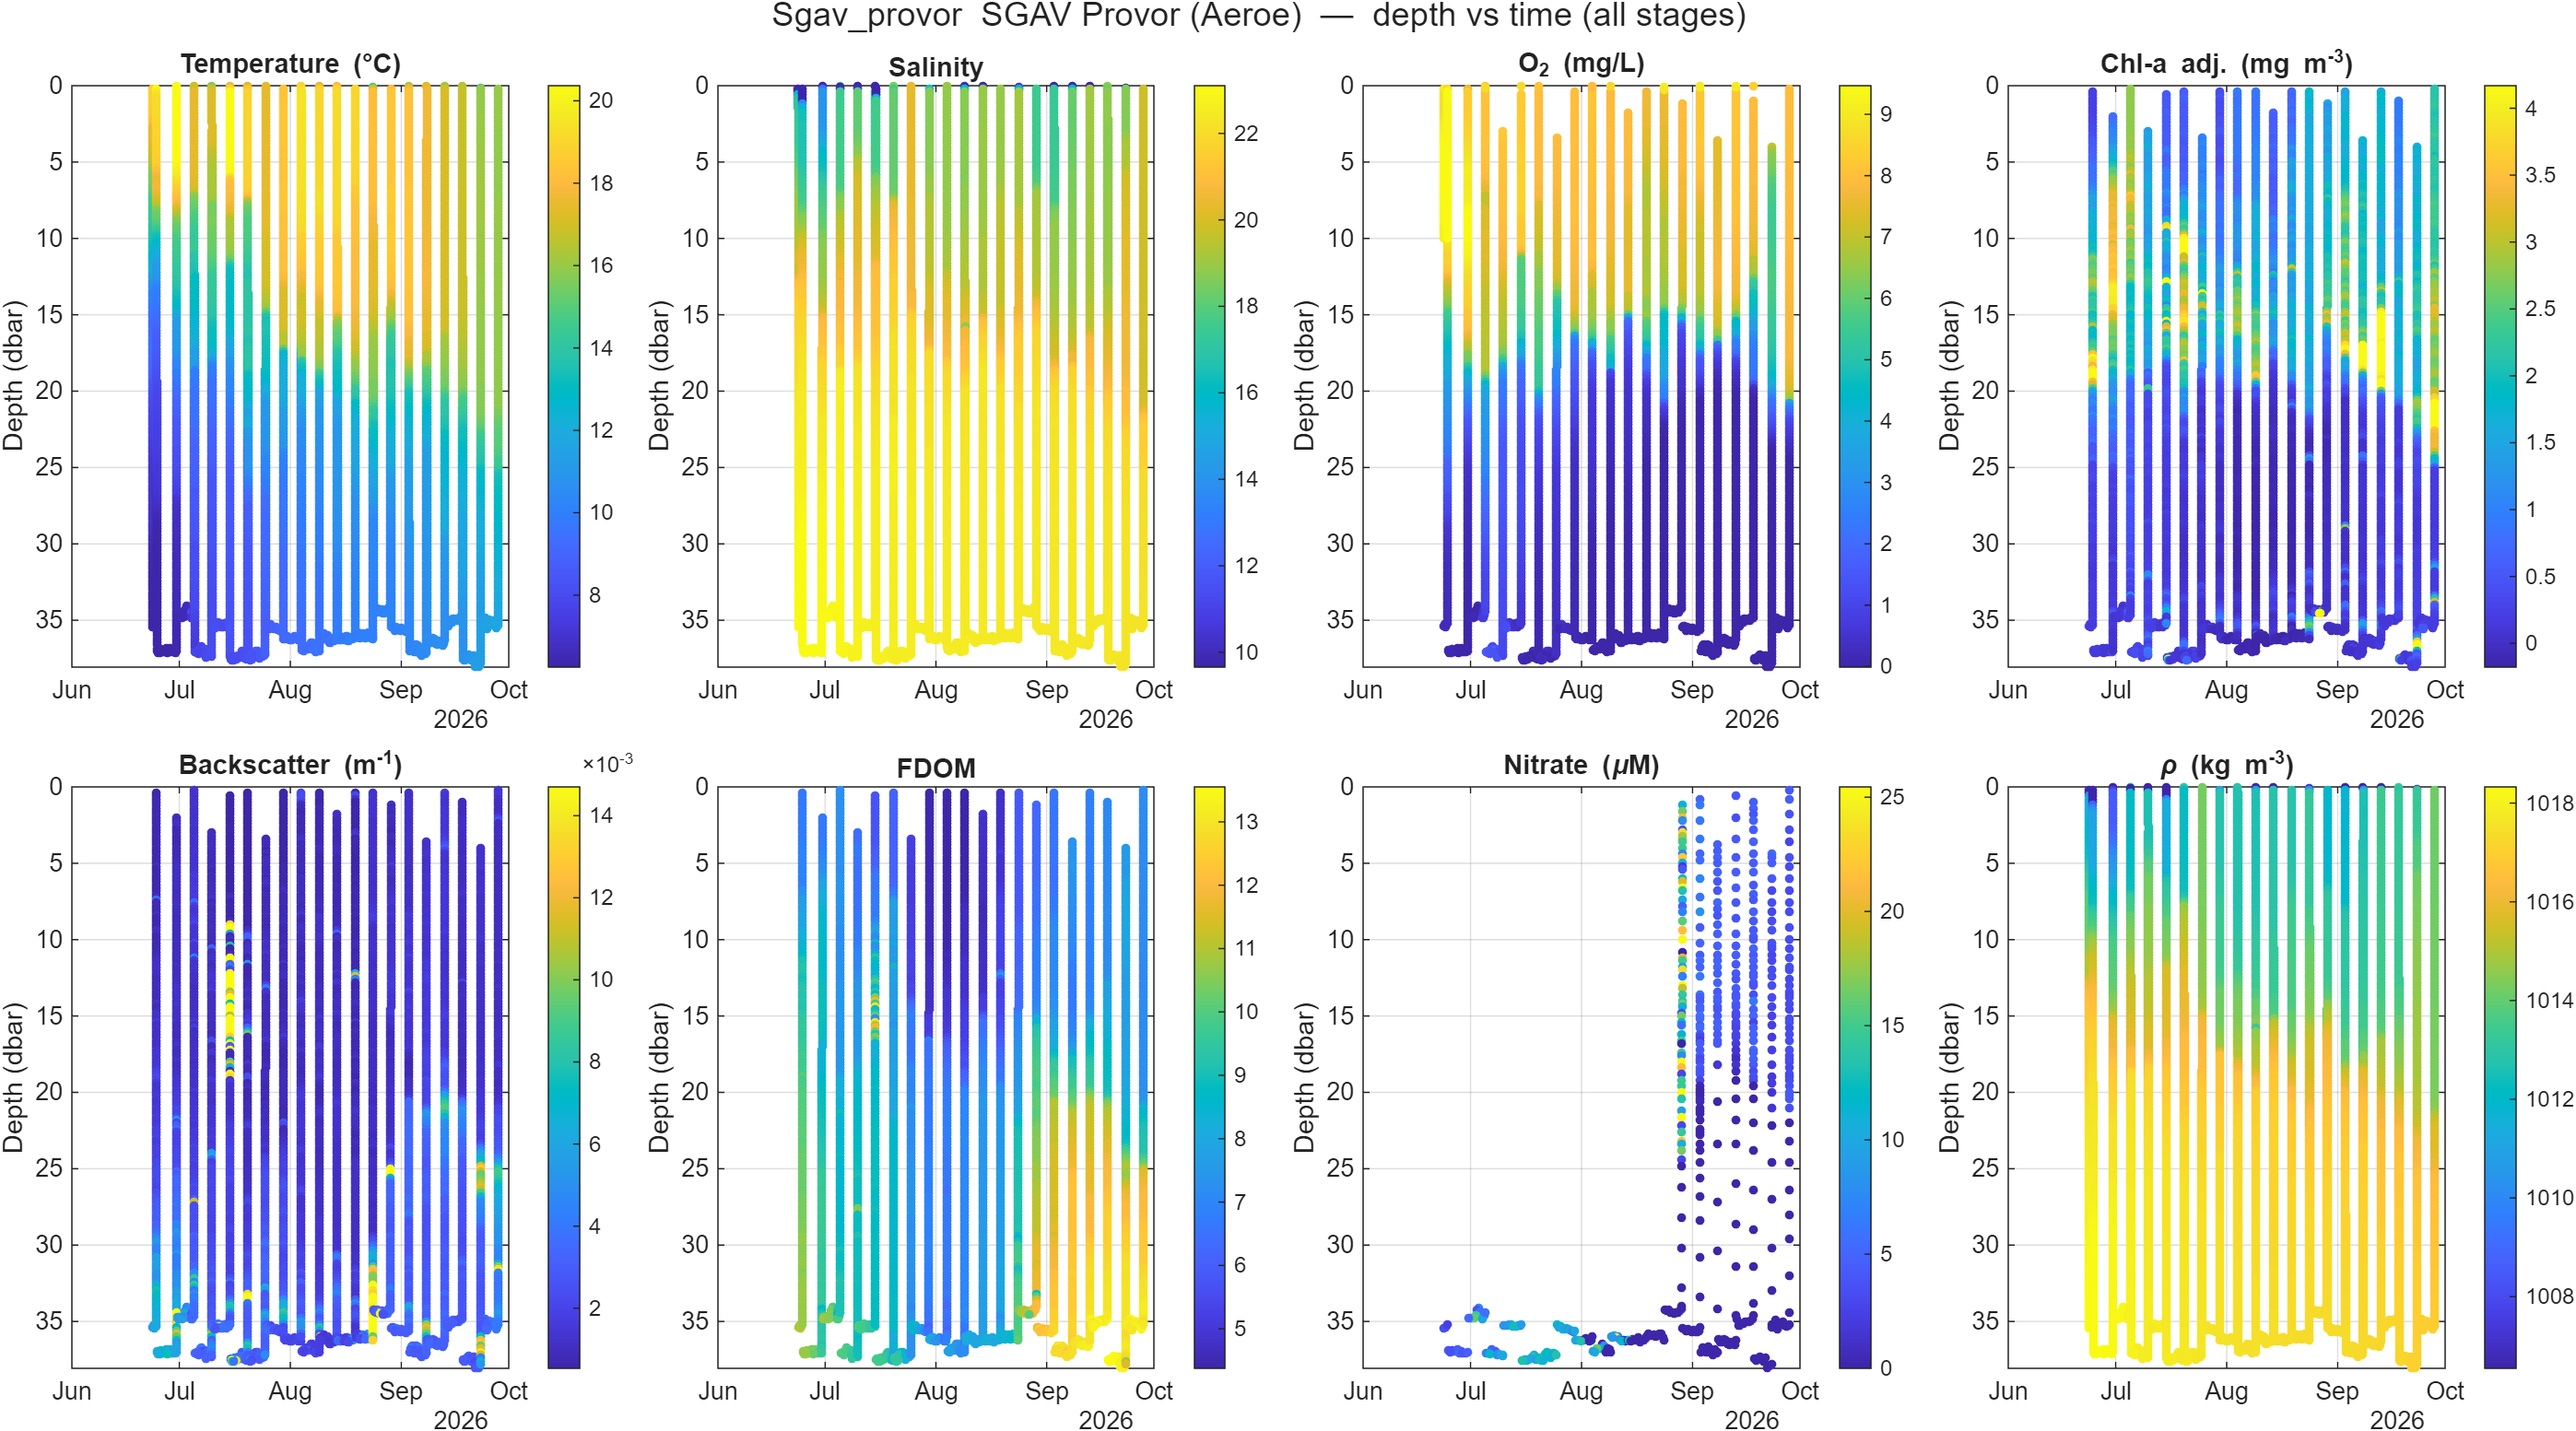
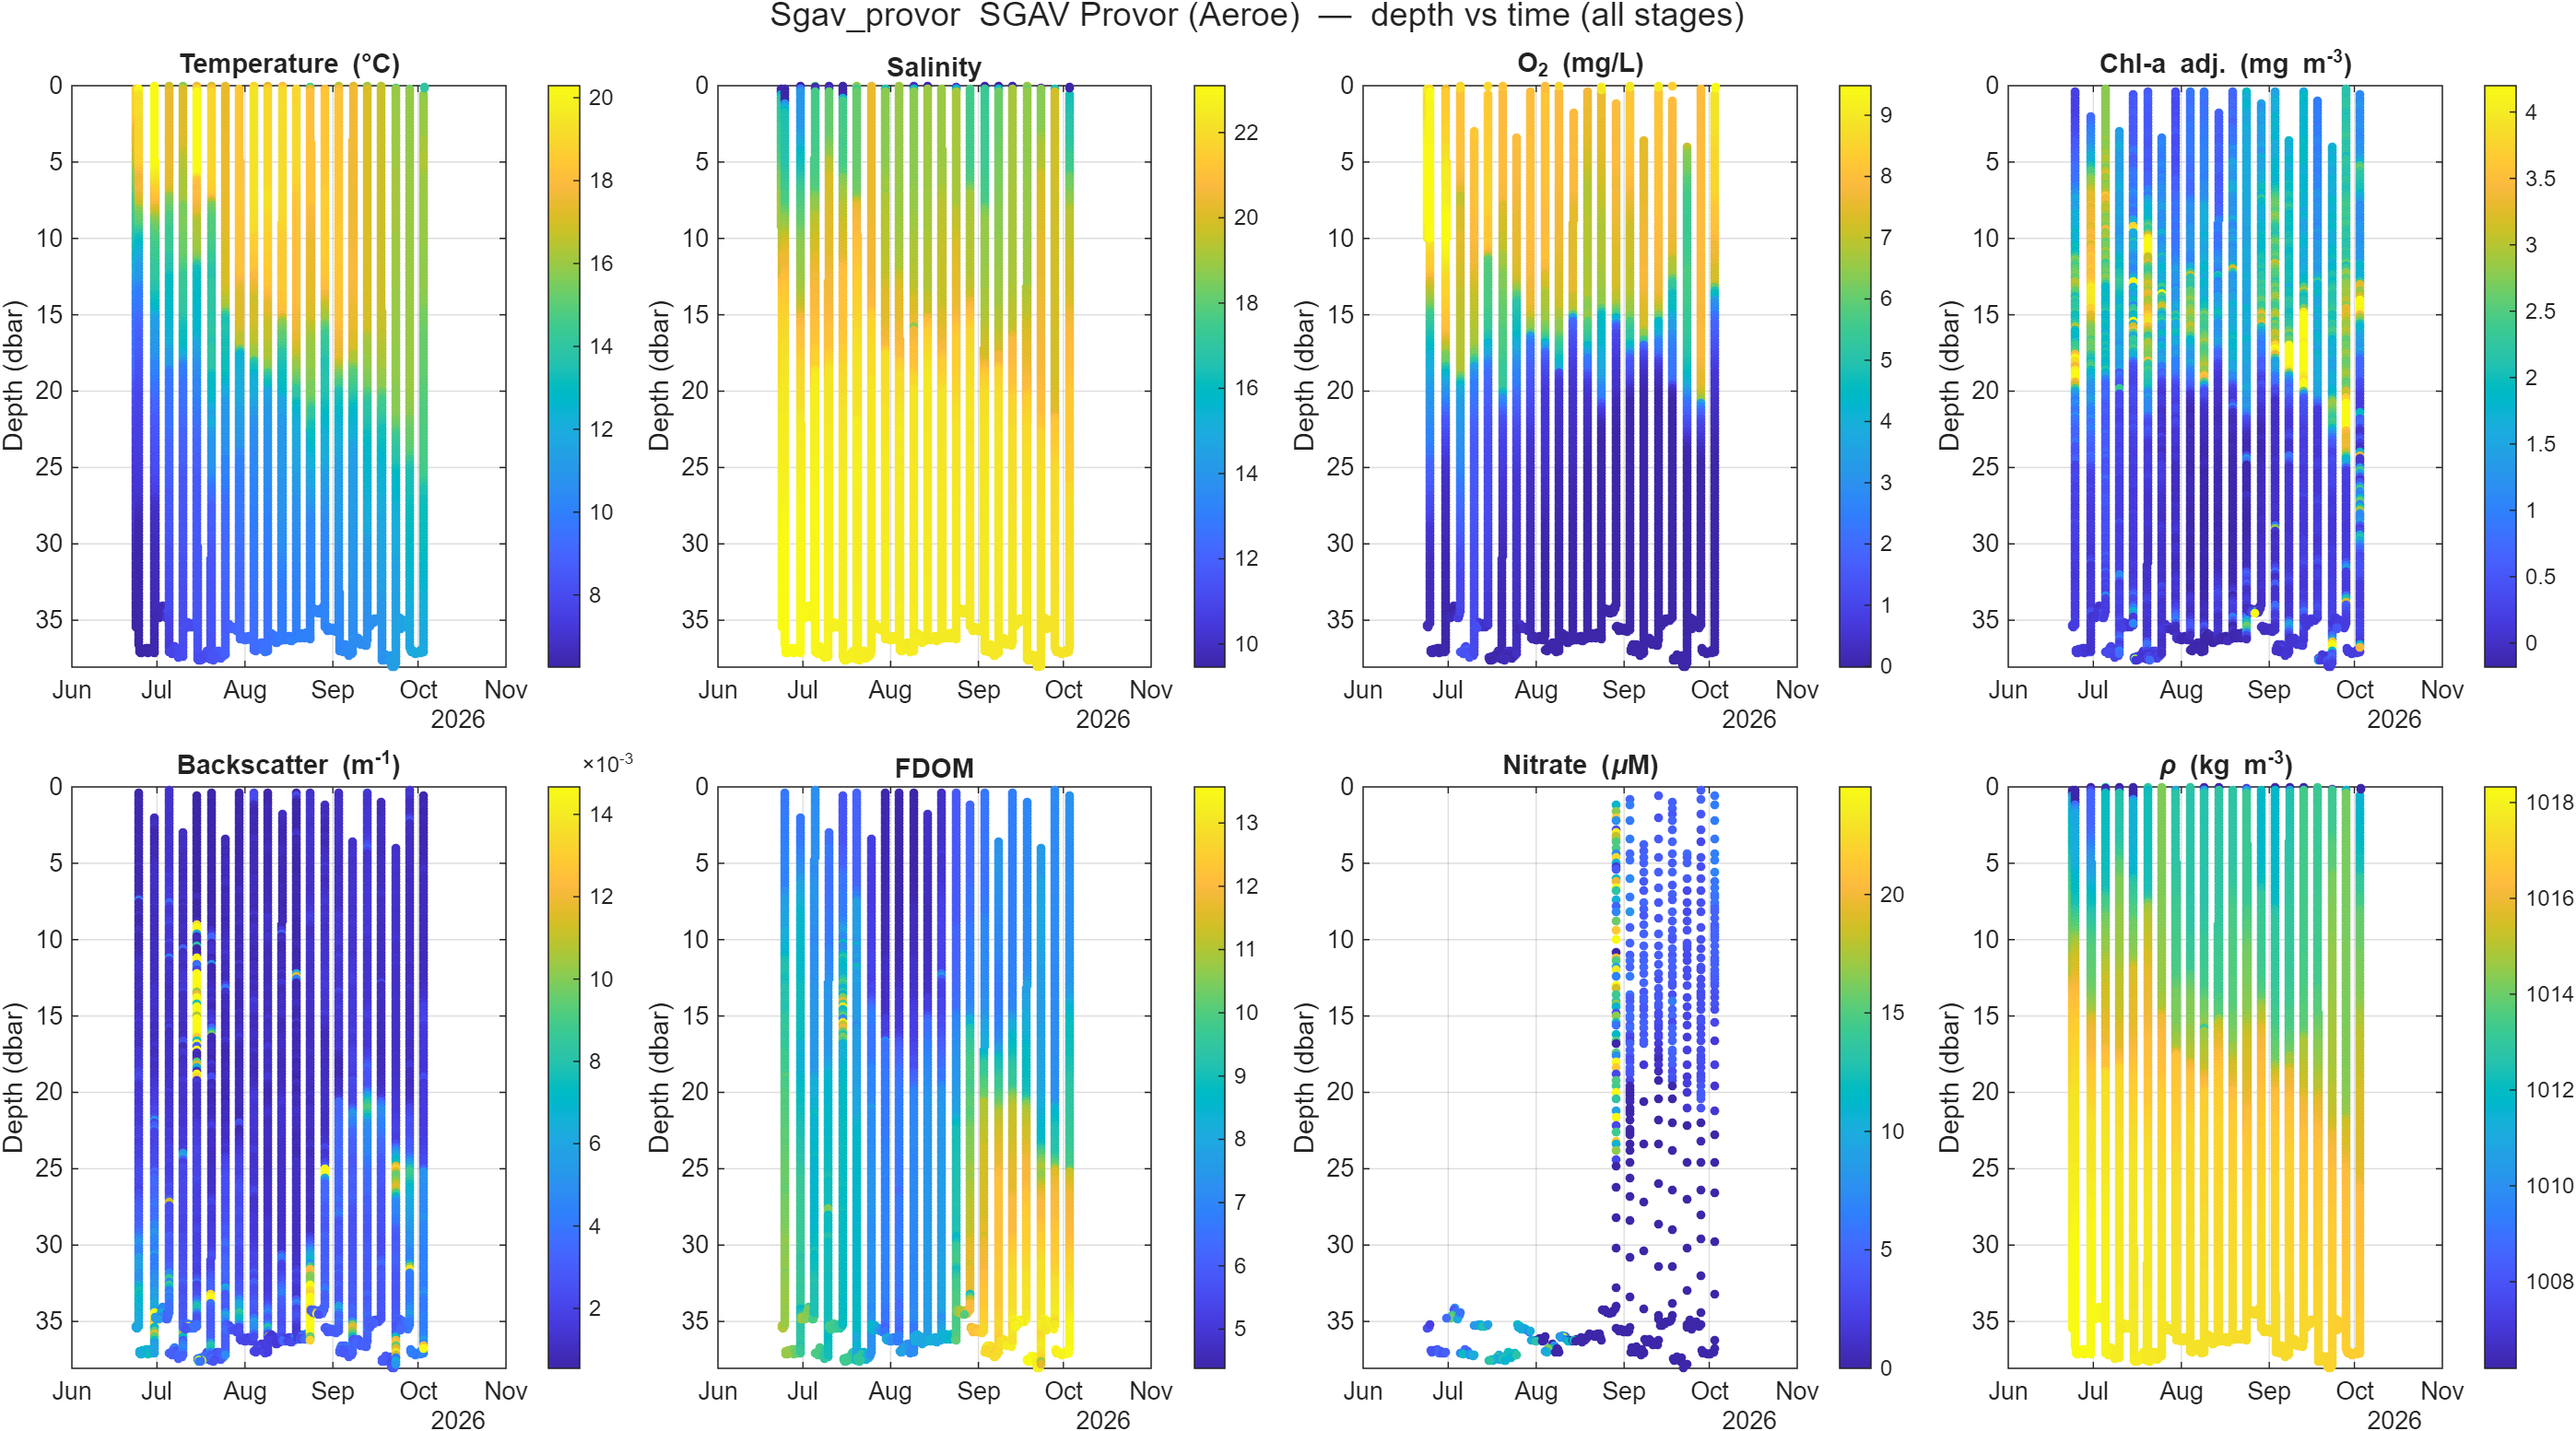
update sgav provor

diff --git a/data.js b/data.js
@@ -15,7 +15,7 @@
 //   graphs        [{label, src}, ...] figures for the fold-out
 //   notes         free text from floats_config.csv
 
-const floatUpdated = "2026-10-05 13:20";
+const floatUpdated = "2026-10-05 15:23";
 
 const floatData = [
   {
@@ -32,7 +32,7 @@ const floatData = [
     "location": "69.937° N, 18.486° W",
     "deployment_date": "2025-05-27",
     "last_surface": "2026-10-02 13:07",
-    "days_since": 3,
+    "days_since": 3.1,
     "next_surface": "2026-10-07 12:07",
     "next_surface_source": "nke cycle period",
     "n_profiles": 102,
@@ -481,7 +481,7 @@ const floatData = [
     "location": "67.539° N, 20.042° W",
     "deployment_date": "2025-02-10",
     "last_surface": "2026-10-04 10:44",
-    "days_since": 1.1,
+    "days_since": 1.2,
     "next_surface": "2026-10-09 09:44",
     "next_surface_source": "nke cycle period",
     "n_profiles": 123,
@@ -1014,7 +1014,7 @@ const floatData = [
     "location": "78.691° N, 11.255° W",
     "deployment_date": "2025-08-04",
     "last_surface": "2026-09-01 04:35",
-    "days_since": 34.4,
+    "days_since": 34.5,
     "next_surface": "2026-09-06 03:35",
     "next_surface_source": "nke cycle period",
     "n_profiles": 81,
@@ -1383,7 +1383,7 @@ const floatData = [
     "location": "73.124° N, 14.694° W",
     "deployment_date": "2025-10-30",
     "last_surface": "2026-10-03 06:57",
-    "days_since": 2.3,
+    "days_since": 2.4,
     "next_surface": "2026-10-08 05:57",
     "next_surface_source": "nke cycle period",
     "n_profiles": 68,
@@ -1700,7 +1700,7 @@ const floatData = [
     "location": "77.331° N, 70.923° W",
     "deployment_date": "2025-08-13",
     "last_surface": "2026-10-04 00:25",
-    "days_since": 1.5,
+    "days_since": 1.6,
     "next_surface": "2026-10-08 23:25",
     "next_surface_source": "nke cycle period",
     "n_profiles": 64,
@@ -2001,7 +2001,7 @@ const floatData = [
     "location": "74.330° N, 20.311° W",
     "deployment_date": "2025-08-17",
     "last_surface": "2026-10-02 12:29",
-    "days_since": 3,
+    "days_since": 3.1,
     "next_surface": "2026-10-12 07:29",
     "next_surface_source": "nke cycle period",
     "n_profiles": 42,
@@ -2214,7 +2214,7 @@ const floatData = [
     "location": "56.323° N, 19.413° E",
     "deployment_date": "2024-11-25",
     "last_surface": "2026-10-05 02:55",
-    "days_since": 0.4,
+    "days_since": 0.5,
     "next_surface": "2026-10-09 21:55",
     "next_surface_source": "nke cycle period",
     "n_profiles": 146,
@@ -2835,7 +2835,7 @@ const floatData = [
     "location": "55.201° N, 9.752° E",
     "deployment_date": "2026-06-23",
     "last_surface": "2026-09-25 17:38",
-    "days_since": 9.8,
+    "days_since": 9.9,
     "next_surface": "2026-09-30 16:29",
     "next_surface_source": "median cycle interval",
     "n_profiles": 20,
@@ -2943,15 +2943,15 @@ const floatData = [
     "region": "denmark",
     "status": "active",
     "status_note": "",
-    "latitude": 54.9862,
-    "longitude": 10.2284,
-    "location": "54.986° N, 10.228° E",
+    "latitude": 54.9865,
+    "longitude": 10.229,
+    "location": "54.986° N, 10.229° E",
     "deployment_date": "2026-06-24",
-    "last_surface": "2026-09-28 01:36",
-    "days_since": 7.5,
-    "next_surface": "2026-10-03 01:31",
+    "last_surface": "2026-10-03 02:16",
+    "days_since": 2.5,
+    "next_surface": "2026-10-08 02:12",
     "next_surface_source": "median cycle interval",
-    "n_profiles": 20,
+    "n_profiles": 21,
     "track": [
       [
         54.9864,
@@ -3032,6 +3032,10 @@ const floatData = [
       [
         54.9862,
         10.2284
+      ],
+      [
+        54.9865,
+        10.229
       ]
     ],
     "trajectory": "assets/plots/Sgav_provor/Sgav_provor_map.png",
@@ -3041,8 +3045,8 @@ const floatData = [
         "src": "assets/plots/Sgav_provor/Sgav_provor_sections.png"
       },
       {
-        "label": "Profile 020  (2026-09-28)",
-        "src": "assets/plots/Sgav_provor/Sgav_provor_profile_020_2026-09-28.png"
+        "label": "Profile 021  (2026-10-03)",
+        "src": "assets/plots/Sgav_provor/Sgav_provor_profile_021_2026-10-03.png"
       }
     ],
     "notes": "BGC+RAMSES+SUNA; needs external SGAV_provor tree beside pipeline (FTP+APMTDecoder); set active=true to re-run"
@@ -3061,7 +3065,7 @@ const floatData = [
     "location": "55.136° N, 14.512° E",
     "deployment_date": "2023-11-07",
     "last_surface": "2025-07-06 10:58",
-    "days_since": 456.1,
+    "days_since": 456.2,
     "next_surface": "",
     "next_surface_source": "",
     "n_profiles": 190,
